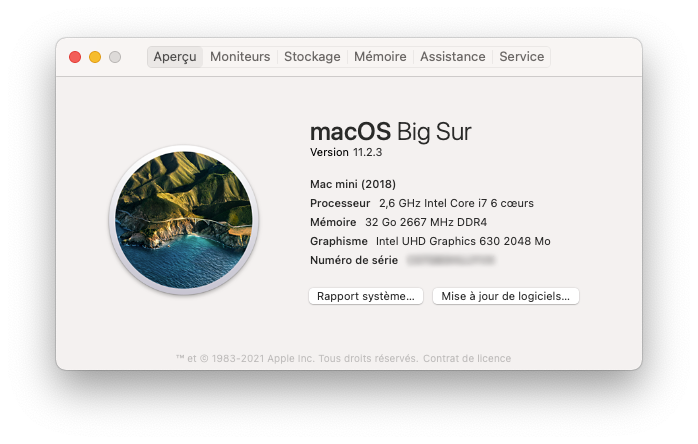
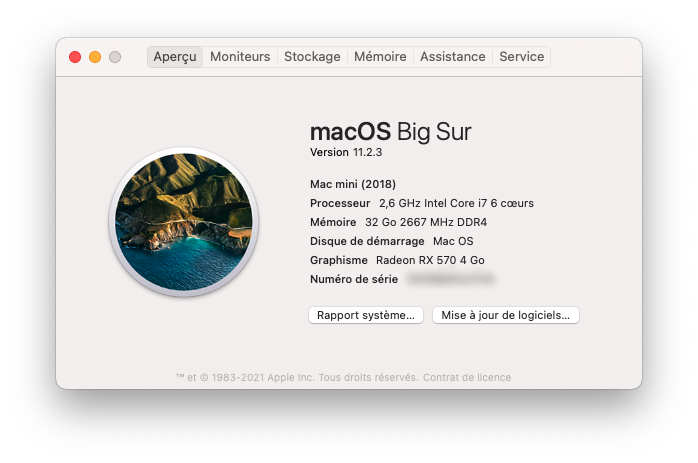
feat: add RX 570

diff --git a/README.md b/README.md
@@ -7,8 +7,9 @@
 ## System Specification
 - Processor: Intel® Core™ i7-9750H Processor (6 cores, 12 MB Cache, 2.6 GHz to 4.50 GHz)
 - Memory: G.Skill RIPJAWS 2x16 GB 2666 MHz DDR4
-- Graphics: Intel UHD Graphics 630 2048 MB
-- Hard Disk: NVMe Samsung EVO 970 500 GB 
+- Graphics: Sapphire Pulse `RX 570` 4GB ITX + Built-in Intel `UHD Graphics 630` 2048 MB
+- Main Hard Disk: NVMe Samsung EVO 970 500 GB
+- Secondary Hard Disk: M.2 Sata Sandisk 500GB 
 - Wifi/BT: Built-in `Intel AX200`
 - Audio: Built-in `Realtek ALC256`
 
@@ -36,7 +37,8 @@
 
 ## Hardware
 
-* [x] GPU acceleration
+* [x] GPU acceleration: built-in `Intel UHD 630` 
+* [x] GPU acceleration: `RX 570` (out of the box)
 * [x] Ethernet
 * [x] Audio (Front Panel Headphone)
 * [x] Audio (Rear Panel Headphone)
@@ -55,7 +57,8 @@
 * [x] APFS, SSD TRIM
 * [x] iMessage, iCloud, Siri, iTunes, other services
 * [ ] Handoff, Continuity, Universal Clipboard
-* [x] Metal, GPU accelerated applications
+* [x] Metal, GPU accelerated applications: built-in `Intel UHD 630`
+* [x] Metal, GPU accelerated applications: `RX 570`
 * [x] Time Machine
 * [x] Sleep mode
 * [x] Shutdown/Sleep/Wake
@@ -105,7 +108,7 @@
 - Bluetooth: [IntelBluetoothFirmware v1.1.2](https://github.com/OpenIntelWireless/IntelBluetoothFirmware/releases/tag/1.1.2)
 - Built-in Wifi: [AirportItlwm v1.2.0](https://github.com/OpenIntelWireless/itlwm/releases/tag/v1.2.0)
 - USB: [USBInjectAll v2018-1108](https://bitbucket.org/RehabMan/os-x-usb-inject-all/downloads/?tab=downloads)
-- NVMe [NVMeFix v1.0.5](https://github.com/acidanthera/NVMeFix/releases/tag/1.0.5)
+- NVMe: [NVMeFix v1.0.5](https://github.com/acidanthera/NVMeFix/releases/tag/1.0.5)
 
 ## Resources
 - [OpenCore Sanity Checker](https://opencore.slowgeek.com)
